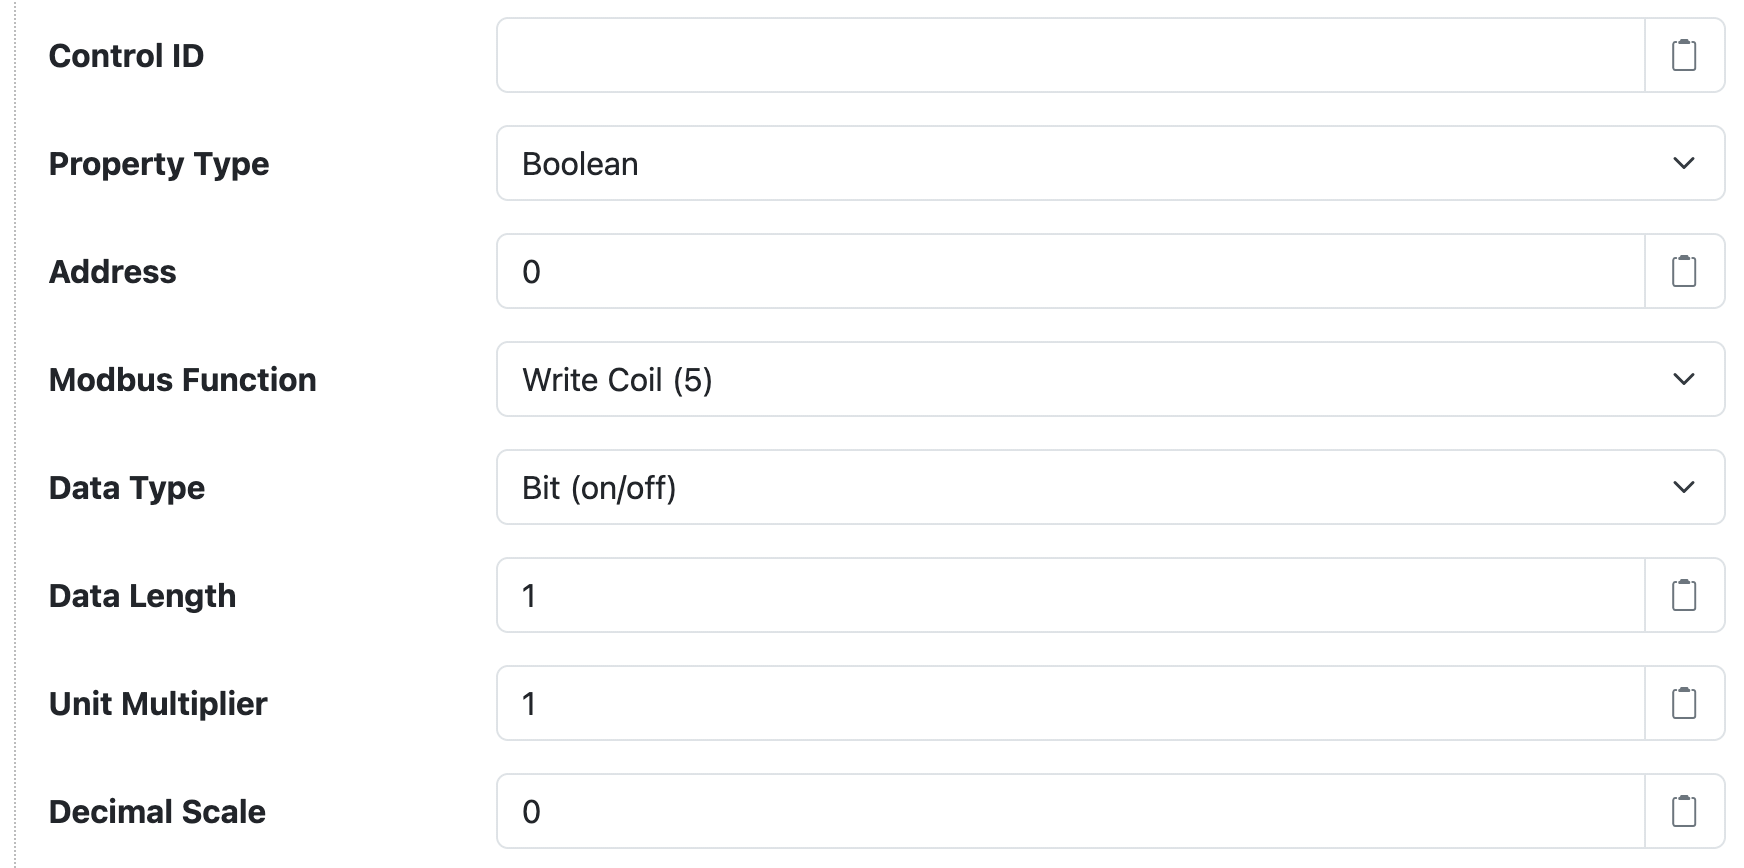
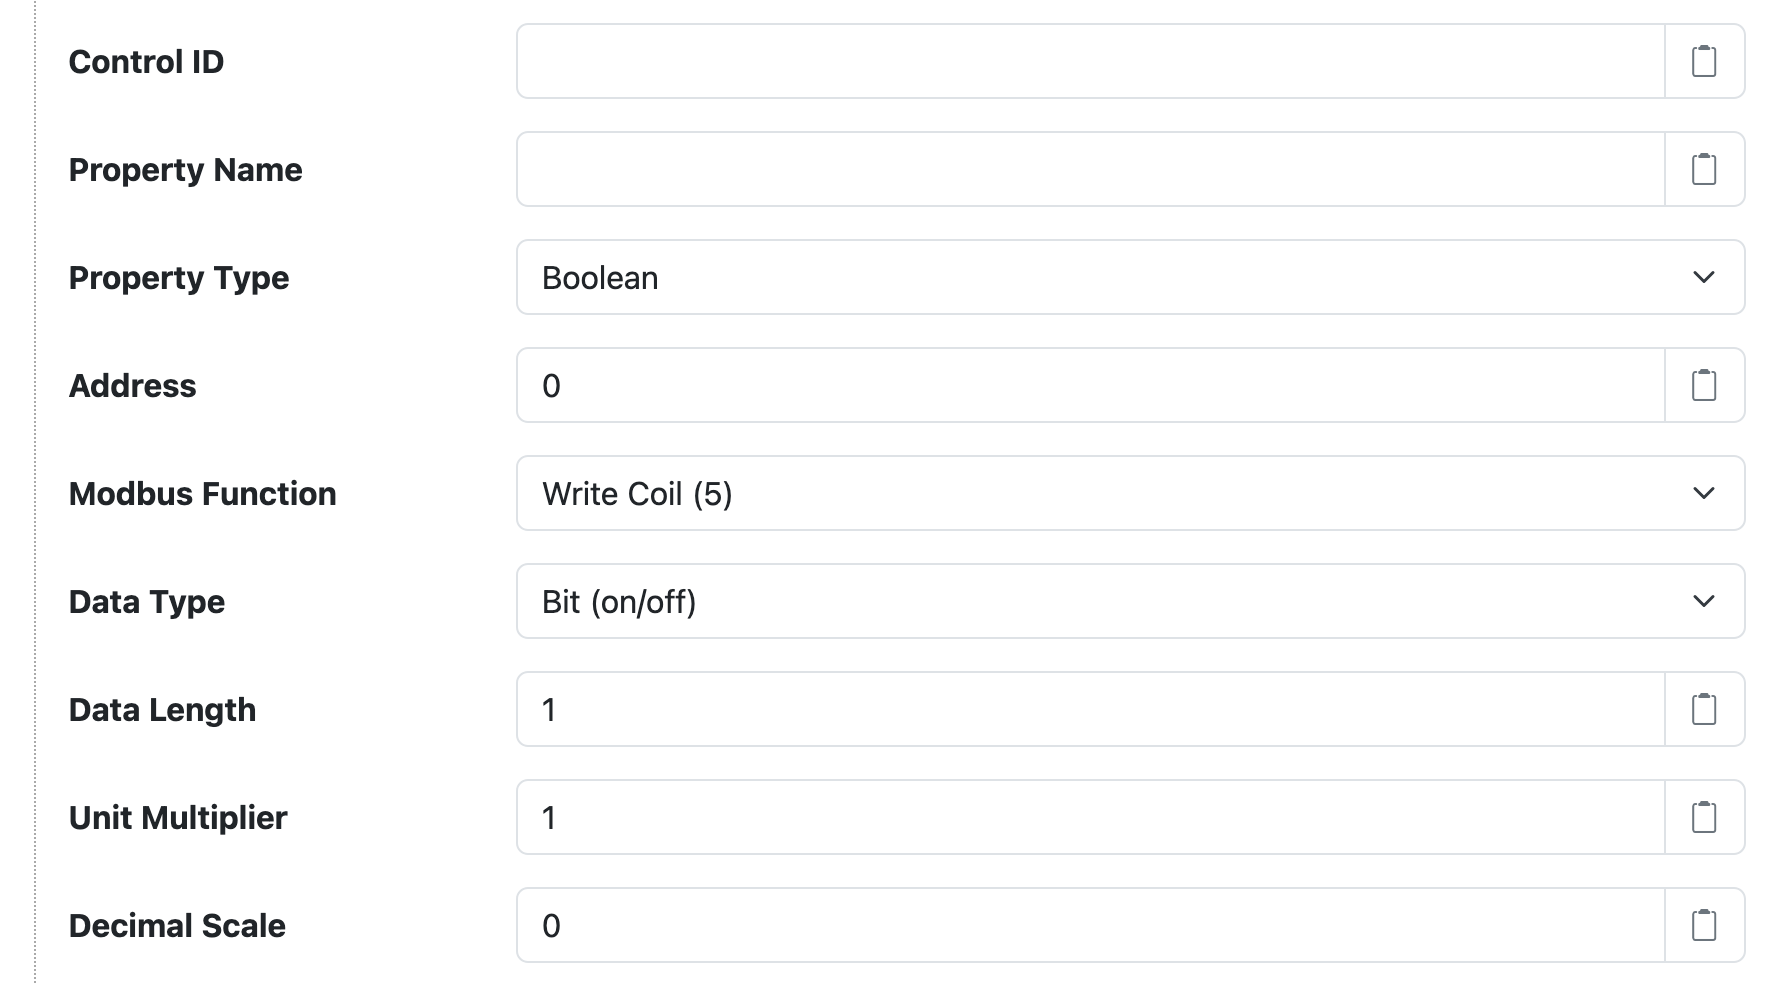
Update Modbus Control docs; rename Controls Datum Source file for consistency.

diff --git a/docs/users/controls/modbus.md b/docs/users/controls/modbus.md
@@ -83,13 +83,13 @@ SolarNode UI:
 
 #### CSV column definition
 
-The following table defines all the CSV columns used by Modbus Device CSV Configuration. Columns
-**A - H** apply to the **entire Modbus Device configuration**, and only the values from the row that
+The following table defines all the CSV columns used by Modbus Device CSV Configuration. Columns **A
+- E** apply to the **entire Modbus Control configuration**, and only the values from the row that
 defines a new Instance ID will be used to configure the device. Thus you can omit the values from
 these columns when defining more than one property for a given device.
 
-Columns **I - Q** define the mapping of Modbus registers to datum properties: each row defines an
-individual datum property.
+Columns **F - N** define the mapping of Modbus registers to controls: each row defines an individual
+control.
 
 
 | Col | Name | Type | Default | Description |
@@ -107,6 +107,7 @@ individual datum property.
 | `K` | **Data Length** | integer |  | For variable length data types such as strings, the number of Modbus registers to read. |
 | `L` | **Multiplier** | decimal | `1` | For numeric data types, a multiplier to apply to the Modbus value to normalize it into a standard unit. |
 | `M` | **Decimal Scale** | integer | `0` | For numeric data types, a maximum number of decimal places to round decimal numbers to, or `-1` to not do any rounding. |
+| `N` | **Property Name** | string |  | An **optional** property name to use for the control value. |
 
 ### Example CSV
 
@@ -114,15 +115,15 @@ Here is the CSV as shown in the example configuration screen shot above (comment
 for brevity):
 
 ```csv
-Instance ID,Connection,Unit ID,Sample Cache,Word Order,Control ID,Property Type,Register,Register Type,Data Type,Data Length,Multiplier,Decimal Scale
-P1,Modbus Port,1,5000,Most to least,,,,,,,,
-,,,,,msg/1,String,1000,Holding,String ASCII,16,,
-,,,,,analog/1,Float,0,Holding,32-bit float,,1,-1
-,,,,,analog/2,Float,2,Holding,32-bit float,,1,1
-,,,,,meter/1,Integer,70,Holding,64-bit unsigned int,,,
-,,,,,switch/1,Boolean,100,Coil,Boolean,,,
-P2,Modbus Port,2,5000,Most to least,power/1,Integer,10,Holding,16-bit unsigned int,,0.01,
-,,,,,power/2,Integer,11,Holding,32-bit unsigned int,,,
+Instance ID,Connection,Unit ID,Sample Cache,Word Order,Control ID,Property Type,Register,Register Type,Data Type,Data Length,Multiplier,Decimal Scale,Property Name
+P1,Modbus Port,1,5000,Most to least,,,,,,,,,
+,,,,,msg/1,String,1000,Holding,String ASCII,16,,,
+,,,,,analog/1,Float,0,Holding,32-bit float,,1,-1,
+,,,,,analog/2,Float,2,Holding,32-bit float,,1,1,
+,,,,,meter/1,Integer,70,Holding,64-bit unsigned int,,,,
+,,,,,switch/1,Boolean,100,Coil,Boolean,,,,
+P2,Modbus Port,2,5000,Most to least,power/1,Integer,10,Holding,16-bit unsigned int,,0.01,,
+,,,,,power/2,Integer,11,Holding,32-bit unsigned int,,,,
 ```
 
 ## Settings
@@ -151,7 +152,7 @@ of registers). You can configure as many property settings as you like, using th
 ++minus++ buttons to add/remove property configurations (and thus, add/remove controls).
 
 <figure markdown>
-  ![Modbus Control property settings](../../images/users/controls/modbus-control-property-settings@2x.png){width=872 loading=lazy}
+  ![Modbus Control property settings](../../images/users/controls/modbus-control-property-settings@2x.png){width=887 loading=lazy}
 </figure>
 
 Each property configuration contains the following settings:
@@ -159,6 +160,7 @@ Each property configuration contains the following settings:
 | Setting         | Description |
 |-----------------|-------------|
 | Control ID      | A name to associate this control configuration with. This should be unique amongst all control IDs deployed on the SolarNode. By convention, control IDs are grouped into a hierarchy via slash characters, for example `/modem/power/1`. This ID will also be used as the datum source ID when the control value is posted to SolarNetwork. |
+| Property Name   | An **optional** property name to use for the control value. Useful when using the [Control Datum Source](../datum-sources/controls.md), to change the generated datum property name from the default of `val`. |
 | Property Type   | The SolarNode control type to use. Each property must be categorized as `Boolean` (on/off), `Float` (decimal number), `Integer` (whole number), `Percent` (decimal number between 0 and 1), or `String`. |
 | Address         | The starting register address to read Modbus data from (zero-based). Note this value is the zero-based address to read. Sometimes documentation for Modbus devices list the addresses in one-based notation. If that is the case for your device, simply subtract one from the documented address here. |
 | Modbus Function | The Modbus write function to execute. |

diff --git a/docs/users/datum-sources/control.md b/docs/users/datum-sources/control.md
@@ -1,7 +1,7 @@
 ---
-title: Controls
+title: Control
 ---
-# Controls Datum Source
+# Control Datum Source
 
 SolarNode can generate a datum stream from SolarNode [control][controls] values, either on a fixed
 schedule or in response to changes to control values.
@@ -26,11 +26,15 @@ This component is included in the [solarnode-app-control-core][pkg] package in S
 You can install this package on the [System > Packages][packages] page in SolarNode.
 
 <figure markdown>
-  ![BACnet Device component](../../images/users/datum-sources/bacnet-device-component@2x.png){width=1024 loading=lazy}
+  ![Control component](../../images/users/datum-sources/control-component@2x.png){width=1024 loading=lazy}
 </figure>
 
 
 ## Settings
+
+<figure markdown>
+  ![Control settings](../../images/users/datum-sources/control-settings@2x.png){width=1024 loading=lazy}
+</figure>
 
 Each component configuration contains the following settings:
 
